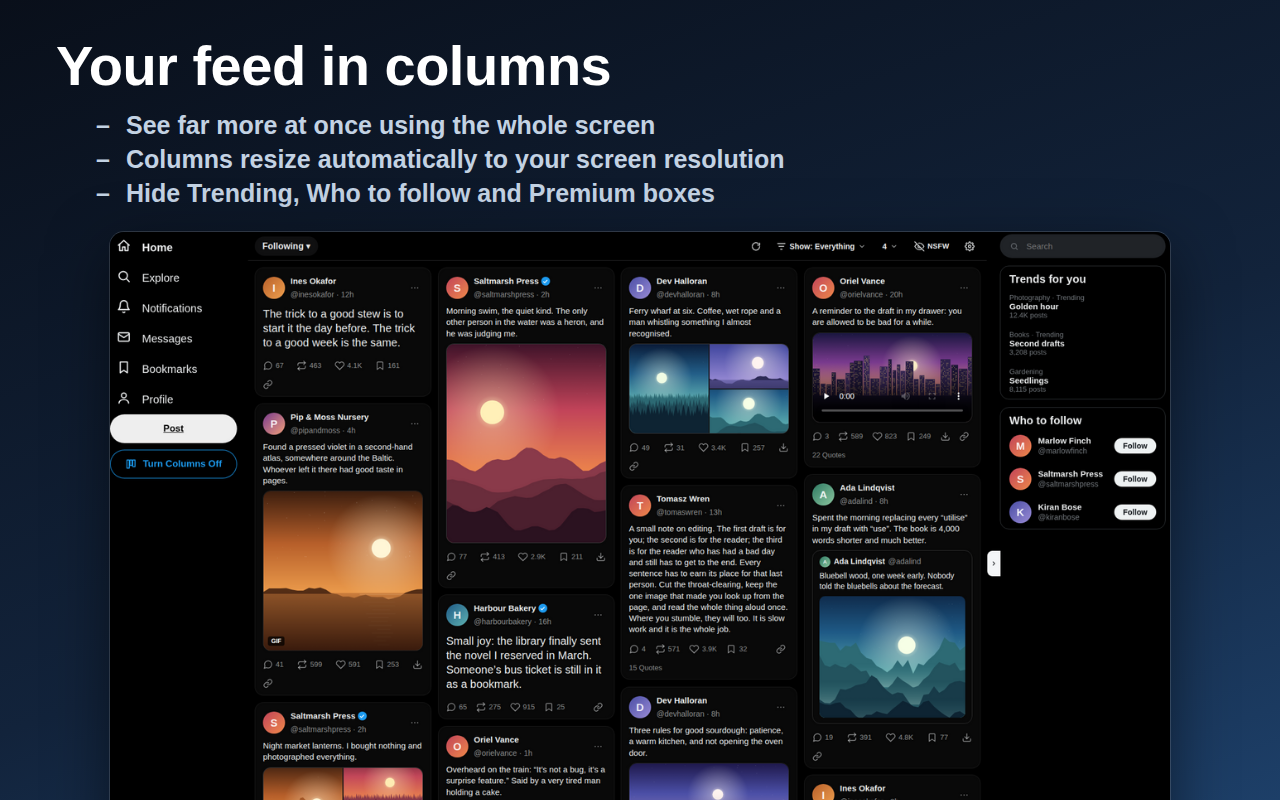
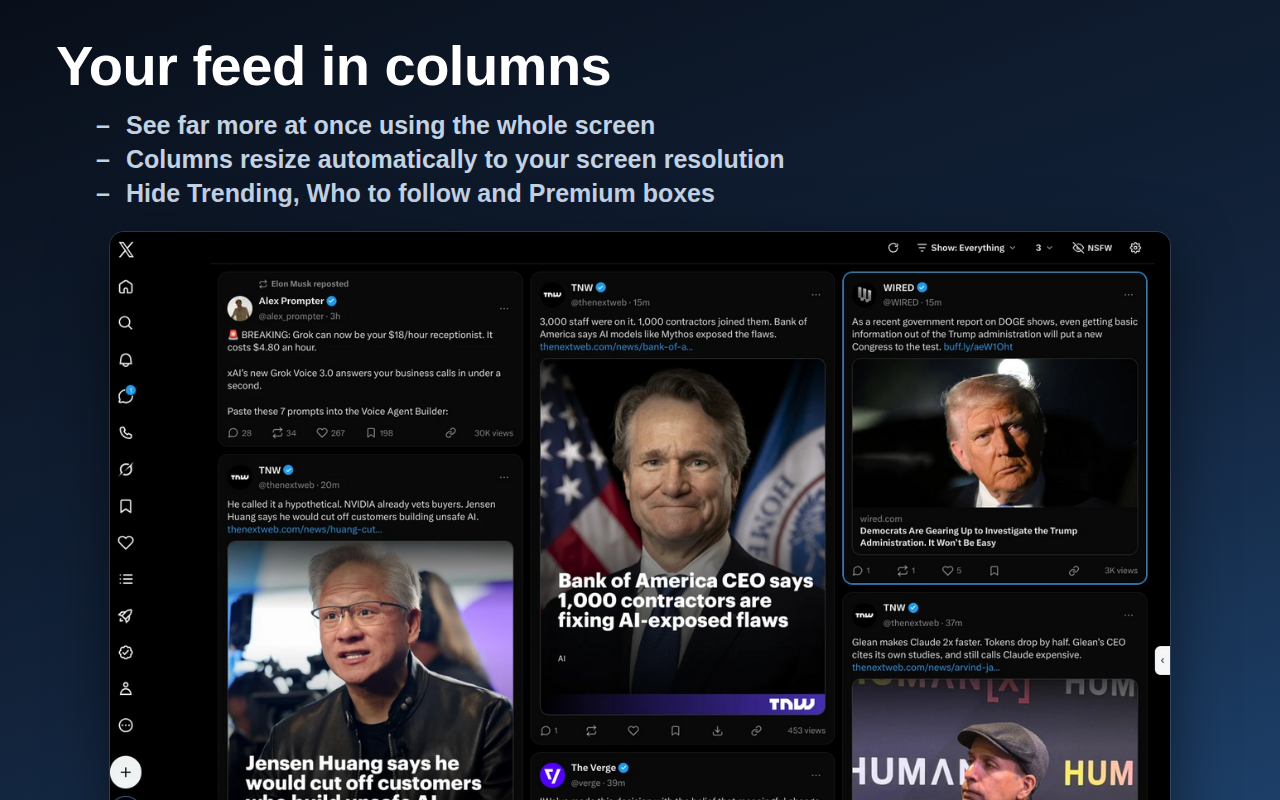
Store: slides 1, 3 and 7 are real shots of X (the owner's profile blurred out), with the tool that makes them
Claude-Session: https://claude.ai/code/session_018kEDBPkK9jgvVfS9DEM5ks

diff --git a/store/prepare-own.js b/store/prepare-own.js
@@ -1,0 +1,26 @@
+'use strict';
+// Makes store pictures from your own screenshots of X: takes off the window's dark margin, blurs the places named in store/own-shots.json (your own profile at the
+// bottom of X's menu, say) and writes store/screenshots/own/<name>.png at 1280 wide, which make-slides.js then uses in place of the generated shot of that name.
+//   node store/prepare-own.js <folder with your screenshots>
+// The originals are never copied into the repository: only the blurred results are. Each entry of own-shots.json: { "src": file in the folder, "name": the slide's file name,
+// "blur": [[x, y, width, height], ...] in the original's pixels }. Needs ImageMagick (convert).
+const fs = require('node:fs');
+const path = require('node:path');
+const { execFileSync } = require('node:child_process');
+
+const dir = process.argv[2];
+if (!dir) { console.error('usage: node store/prepare-own.js <folder with your screenshots>'); process.exit(2); }
+const OUT = path.join(__dirname, 'screenshots', 'own');
+fs.mkdirSync(OUT, { recursive: true });
+const shots = JSON.parse(fs.readFileSync(path.join(__dirname, 'own-shots.json'), 'utf8'));
+const MARGIN = 8; // (the window's own dark edge in a full-window capture)
+for (const s of shots) {
+  const src = path.join(dir, s.src);
+  if (!fs.existsSync(src)) { console.log('missing', s.src); continue; }
+  const [w, h] = execFileSync('identify', ['-format', '%w %h', src + '[0]'], { encoding: 'utf8' }).trim().split(' ').map(Number);
+  const args = [src + '[0]'];
+  for (const [x, y, bw, bh] of s.blur || []) args.push('-region', `${bw}x${bh}+${x}+${y}`, '-scale', '6%', '-scale', '1667%', '-blur', '0x6', '+region'); // (a coarse mosaic, then a blur: nothing of a face or a name is left)
+  args.push('-crop', `${w - 2 * MARGIN}x${h - 2 * MARGIN}+${MARGIN}+${MARGIN}`, '+repage', '-resize', '1280x', '-strip', 'PNG24:' + path.join(OUT, s.name + '.png'));
+  execFileSync('convert', args);
+  console.log('wrote', s.name);
+}

diff --git a/store/listing.md b/store/listing.md
@@ -64,7 +64,7 @@ X and Twitter are trademarks of X Corp. This add-on is not affiliated with, endo
 **Release notes (current version):**
 Columns on Home, Search, Lists, Bookmarks and profiles; a post panel with its picture, comments (loading as you scroll), like, bookmark, reply (with pictures, a GIF or emoji) and translate; video in the post; a Reels view; Vim and simple keys; one-click media downloads; filters, including an optional NSFW only view; fourteen colour themes; a welcome page for the first run; followers as a grid; a gallery for Media tabs; Bookmarks, Likes and Lists in the left menu; a menu for narrow windows; a settings page.
 
-**Screenshots** (upload the headline slides in `store/screenshots/slides/`, in this order; `node store/make-screenshots.js` then `node store/make-slides.js` makes them: 1280x800, invented accounts and posts, nothing from X; the plain shots are in `store/screenshots/` if you want any without a headline. A shot of your own saved as `store/screenshots/own/<name>.png` replaces the generated one of that name; slide 1 shows the feed itself and is the one worth replacing with real X; the wording is in `SLIDES` in `store/make-slides.js`):
+**Screenshots** (upload the headline slides in `store/screenshots/slides/`, in this order; `node store/make-screenshots.js` then `node store/make-slides.js` makes them: 1280x800. Slides 1, 3 and 7 are real shots of X (public posts; the owner's own profile at the foot of X's menu is blurred out: `store/own-shots.json` names the sources and the blurred places, `node store/prepare-own.js <folder>` makes `store/screenshots/own/*.png`, and `make-slides.js` uses those in place of the generated shot of the same name); the others are generated, with invented accounts and posts. The plain shots are in `store/screenshots/` if you want any without a headline; the wording is in `SLIDES` in `store/make-slides.js`):
 1. `01-columns.png` Your feed in columns.
 2. `02-reels.png` Doomscroll with style: one post at a time, with the rail of buttons on the picture.
 3. `03-post-panel.png` Open a post without losing your place.
